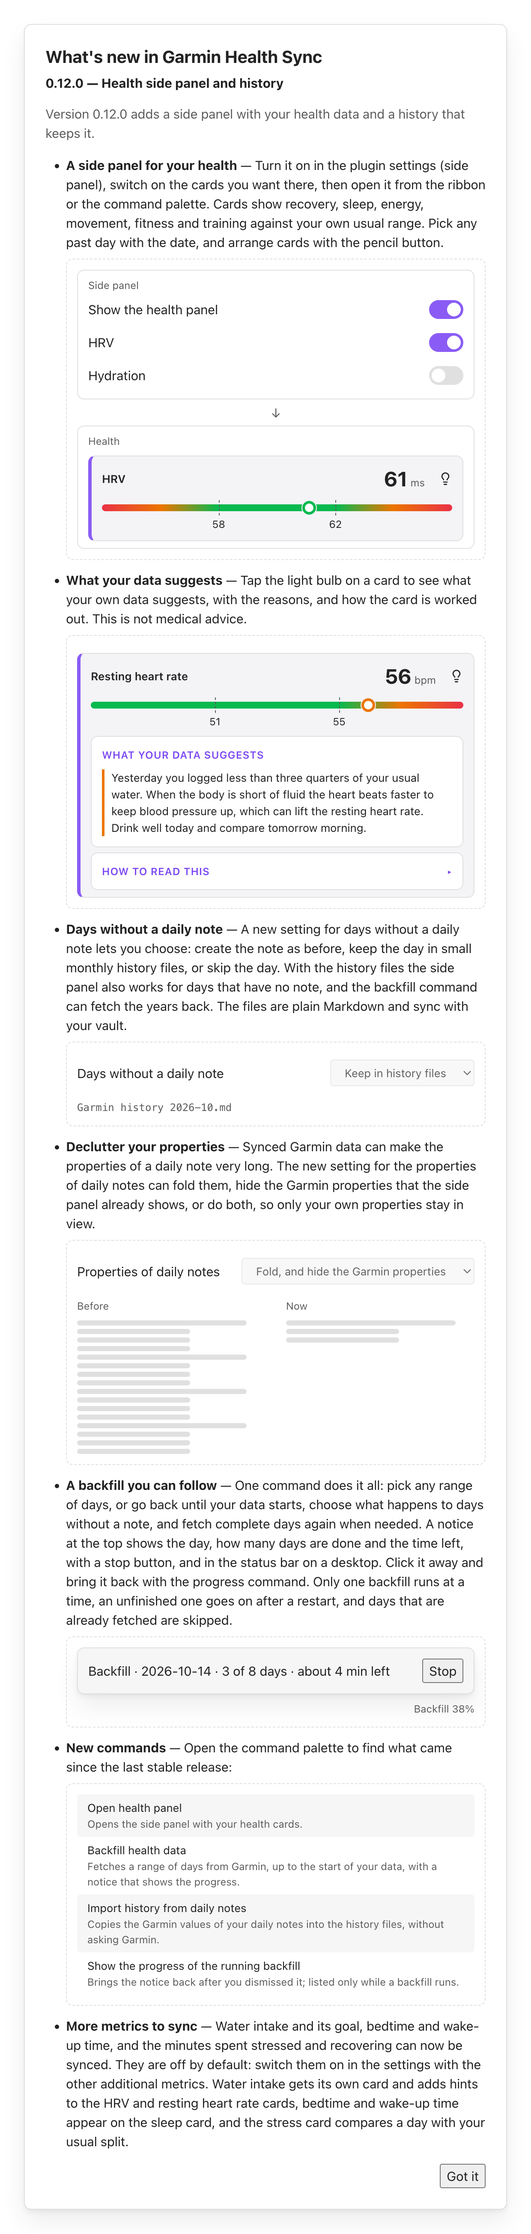
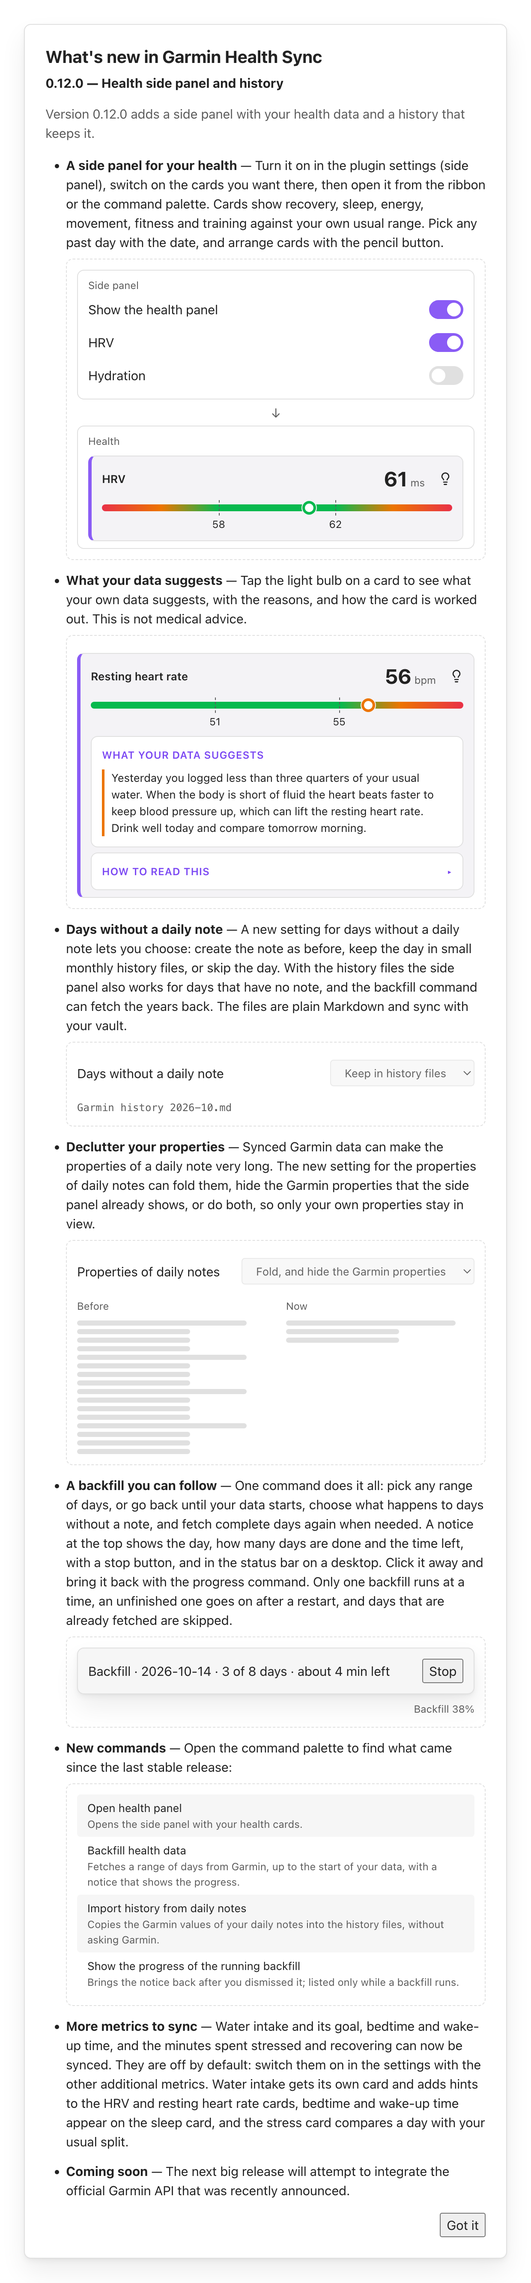
Release polish: card reference docs, README purpose and credits in six languages, NOTICE, what's new coming soon, README parity test

Changed region(s): [[0.0919, 0.0, 0.9194, 0.9996]]

diff --git a/tests/readmeParity.test.ts b/tests/readmeParity.test.ts
@@ -1,0 +1,39 @@
+// Why it matters: the six READMEs are what users in each language read first. A section, an image, a feature bullet
+// or a credit that exists in English but not in a translation is information some users never get, and nothing
+// else compares them.
+import { readFileSync } from "node:fs";
+import { describe, expect, it } from "vitest";
+
+const read = (name: string): string => readFileSync(new URL(`../${name}`, import.meta.url), "utf8");
+const english = read("README.md");
+const translations = ["de", "es", "fr", "ja", "zh"].map((l) => [l, read(`README.${l}.md`)] as const);
+
+const headings = (text: string, mark: string): number => text.split("\n").filter((l) => l.startsWith(`${mark} `)).length;
+const images = (text: string): string[] => [...text.matchAll(/<img src="([^"]+)"/g)].map((m) => m[1]!);
+const features = (text: string): number => {
+	const start = text.indexOf("\n- ");
+	const end = text.indexOf("\n## ", start);
+	return text.slice(start, end).split("\n").filter((l) => l.startsWith("- **")).length;
+};
+
+describe("the translated READMEs", () => {
+	it.each(translations)("README.%s.md has the sections, feature bullets and images of the English one", (_lang, text) => {
+		expect(headings(text, "##")).toBe(headings(english, "##"));
+		expect(headings(text, "###")).toBe(headings(english, "###"));
+		expect(features(text)).toBe(features(english));
+		expect(images(text)).toEqual(images(english));
+	});
+
+	it.each([["README.md", english], ...translations.map(([l, t]) => [`README.${l}.md`, t] as const)])("%s states the purpose, links the card reference and credits the plugins the properties handling was inspired by", (_name, text) => {
+		expect(text).toContain("docs/panel-cards.md");
+		expect(text).toContain("NOTICE.md");
+		expect(text).toContain("obsidian.md/plugins?id=fold-properties-by-default");
+		expect(text).toContain("obsidian.md/plugins?id=extended-properties");
+	});
+
+	it("puts the three screenshots that matter first, before the technical sections", () => {
+		const firstSection = english.indexOf("\n## ");
+		const hero = images(english.slice(0, firstSection));
+		expect(hero).toEqual(["docs/screenshots/panel-today.png", "docs/screenshots/panel-insights.png", "docs/screenshots/panel-today-dark.png"]);
+	});
+});

diff --git a/src/i18n/fr.ts b/src/i18n/fr.ts
@@ -511,6 +511,8 @@ export const fr: Record<TranslationKeys, string> = {
 	whatsNew0120Item6Text: "Ouvrez la palette de commandes pour voir ce qui est arrivé depuis la dernière version stable :",
 	whatsNew0120Item7Title: "Plus de mesures à synchroniser",
 	whatsNew0120Item7Text: "L’apport en eau et son objectif, l’heure du coucher et du réveil, ainsi que les minutes de stress et de récupération peuvent maintenant être synchronisés. Ils sont désactivés par défaut : activez-les dans les réglages avec les autres mesures supplémentaires. L’apport en eau a sa propre carte et ajoute des conseils aux cartes VFC et fréquence cardiaque au repos, l’heure du coucher et du réveil apparaissent sur la carte du sommeil, et la carte du stress compare une journée à votre répartition habituelle.",
+	whatsNew0120Item8Title: "Bientôt",
+	whatsNew0120Item8Text: "La prochaine grande version tentera d’intégrer l’API officielle de Garmin annoncée récemment.",
 	whatsNewCmdOpenPanel: "Ouvre le panneau latéral avec vos cartes de santé.",
 	whatsNewCmdBackfill: "Récupère une période depuis Garmin, jusqu’au début de vos données, avec une notification qui montre la progression.",
 	whatsNewCmdImportHistory: "Copie les valeurs Garmin de vos notes quotidiennes dans les fichiers d’historique, sans interroger Garmin.",

diff --git a/src/i18n/ja.ts b/src/i18n/ja.ts
@@ -511,6 +511,8 @@ export const ja: Record<TranslationKeys, string> = {
 	whatsNew0120Item6Text: "コマンドパレットを開くと、前回の安定版以降に追加されたものが見つかります。",
 	whatsNew0120Item7Title: "同期できる指標が増えました",
 	whatsNew0120Item7Text: "水分摂取量とその目標、就寝時刻と起床時刻、ストレスと回復の時間を同期できるようになりました。初期設定ではオフです。設定のその他の指標でオンにしてください。水分摂取量は専用カードを持ち、HRVと安静時心拍数のカードにヒントを加えます。就寝時刻と起床時刻は睡眠カードに表示され、ストレスカードは普段の割合と比べて1日を示します。",
+	whatsNew0120Item8Title: "近日公開予定",
+	whatsNew0120Item8Text: "次の大型リリースでは、最近発表された Garmin の公式 API の統合を試みる予定です。",
 	whatsNewCmdOpenPanel: "健康カードのあるサイドパネルを開きます。",
 	whatsNewCmdBackfill: "Garminから期間内の日をデータの始まりまで取得し、進捗を通知で表示します。",
 	whatsNewCmdImportHistory: "デイリーノートのGarmin値を、Garminに問い合わせずに履歴ファイルへコピーします。",

diff --git a/src/i18n/es.ts b/src/i18n/es.ts
@@ -511,6 +511,8 @@ export const es: Record<TranslationKeys, string> = {
 	whatsNew0120Item6Text: "Abre la paleta de comandos para ver lo que ha llegado desde la última versión estable:",
 	whatsNew0120Item7Title: "Más métricas para sincronizar",
 	whatsNew0120Item7Text: "Ahora se pueden sincronizar la ingesta de agua y su objetivo, la hora de acostarse y de despertarse, y los minutos con estrés y en recuperación. Están desactivadas de forma predeterminada: actívalas en los ajustes junto con las demás métricas adicionales. La ingesta de agua tiene su propia tarjeta y añade pistas a las tarjetas de VFC y de frecuencia cardíaca en reposo, la hora de acostarse y de despertarse aparecen en la tarjeta de sueño, y la tarjeta de estrés compara un día con tu reparto habitual.",
+	whatsNew0120Item8Title: "Próximamente",
+	whatsNew0120Item8Text: "La próxima gran versión intentará integrar la API oficial de Garmin que se anunció recientemente.",
 	whatsNewCmdOpenPanel: "Abre el panel lateral con tus tarjetas de salud.",
 	whatsNewCmdBackfill: "Obtiene un rango de días de Garmin, hasta el inicio de tus datos, con un aviso que muestra el progreso.",
 	whatsNewCmdImportHistory: "Copia los valores de Garmin de tus notas diarias a los archivos de historial, sin consultar a Garmin.",

diff --git a/src/i18n/de.ts b/src/i18n/de.ts
@@ -512,6 +512,8 @@ export const de: Record<TranslationKeys, string> = {
 	whatsNew0120Item6Text: "Öffne die Befehlspalette, um zu sehen, was seit der letzten stabilen Version dazugekommen ist:",
 	whatsNew0120Item7Title: "Mehr Messwerte zum Synchronisieren",
 	whatsNew0120Item7Text: "Wasseraufnahme samt Ziel, Schlafens- und Aufwachzeit sowie die Minuten mit Stress und Erholung lassen sich jetzt synchronisieren. Sie sind standardmäßig aus: Schalte sie in den Einstellungen bei den weiteren Messwerten ein. Die Wasseraufnahme bekommt eine eigene Karte und ergänzt Hinweise bei HRV und Ruheherzfrequenz, Schlafens- und Aufwachzeit erscheinen auf der Schlafkarte, und die Stresskarte vergleicht einen Tag mit deiner üblichen Verteilung.",
+	whatsNew0120Item8Title: "Demnächst",
+	whatsNew0120Item8Text: "Die nächste große Version wird versuchen, die kürzlich angekündigte offizielle Garmin-API einzubinden.",
 	whatsNewCmdOpenPanel: "Öffnet das Seitenpanel mit deinen Gesundheitskarten.",
 	whatsNewCmdBackfill: "Holt einen Zeitraum von Garmin, bis zum Beginn deiner Daten, mit einer Meldung, die den Fortschritt zeigt.",
 	whatsNewCmdImportHistory: "Kopiert die Garmin-Werte deiner Daily Notes in die Verlaufsdateien, ohne Garmin anzufragen.",

diff --git a/src/note-properties.ts b/src/note-properties.ts
@@ -4,8 +4,9 @@ import type { App, TAbstractFile, TFile } from "obsidian";
  * What a daily note does with its properties block (the "Properties of daily notes" setting): nothing, fold it when
  * the note opens, or hide the rows the sync wrote (the side panel shows them) so only the user's own properties stay in view.
  *
- * Folding works like the plugin "Fold properties by default" (MIT, Tommy Bergeron): Obsidian builds the properties
- * block a moment after the note opens, so look for it a few times, then run Obsidian's own "Toggle fold
+ * Folding works like the plugin "Fold properties by default" (MIT, Tommy Bergeron), and hiding the properties the
+ * panel shows is in the spirit of "Extended Properties" (MIT, electroluminescent); no code of either is used (see
+ * NOTICE.md). Obsidian builds the properties block a moment after the note opens, so look for it a few times, then run Obsidian's own "Toggle fold
  * properties" command if the block is still open. Hiding marks the rows (`data-property-key`) with a class and
  * watches the block, because Obsidian rebuilds rows when a value changes, which a sync does.
  */

diff --git a/src/i18n/en.ts b/src/i18n/en.ts
@@ -510,6 +510,8 @@ export const en = {
 	whatsNew0120Item6Text: "Open the command palette to find what came since the last stable release:",
 	whatsNew0120Item7Title: "More metrics to sync",
 	whatsNew0120Item7Text: "Water intake and its goal, bedtime and wake-up time, and the minutes spent stressed and recovering can now be synced. They are off by default: switch them on in the settings with the other additional metrics. Water intake gets its own card and adds hints to the HRV and resting heart rate cards, bedtime and wake-up time appear on the sleep card, and the stress card compares a day with your usual split.",
+	whatsNew0120Item8Title: "Coming soon",
+	whatsNew0120Item8Text: "The next big release will attempt to integrate the official Garmin API that was recently announced.",
 	whatsNewCmdOpenPanel: "Opens the side panel with your health cards.",
 	whatsNewCmdBackfill: "Fetches a range of days from Garmin, up to the start of your data, with a notice that shows the progress.",
 	whatsNewCmdImportHistory: "Copies the Garmin values of your daily notes into the history files, without asking Garmin.",

diff --git a/src/i18n/zh.ts b/src/i18n/zh.ts
@@ -511,6 +511,8 @@ export const zh: Record<TranslationKeys, string> = {
 	whatsNew0120Item6Text: "打开命令面板，查看自上一个稳定版以来新增的命令：",
 	whatsNew0120Item7Title: "可同步更多指标",
 	whatsNew0120Item7Text: "现在可以同步饮水量及其目标、就寝和起床时间，以及压力和恢复的分钟数。它们默认关闭：请在设置中与其他附加指标一起开启。饮水量有自己的卡片，并为心率变异性和静息心率卡片增加提示；就寝和起床时间显示在睡眠卡片上；压力卡片会将当天与你平时的比例对比。",
+	whatsNew0120Item8Title: "即将推出",
+	whatsNew0120Item8Text: "下一个重大版本将尝试集成最近宣布的 Garmin 官方 API。",
 	whatsNewCmdOpenPanel: "打开带有健康卡片的侧边面板。",
 	whatsNewCmdBackfill: "从 Garmin 获取一段日期范围，直到你的数据开始，并用通知显示进度。",
 	whatsNewCmdImportHistory: "把每日笔记中的 Garmin 值复制到历史文件，无需询问 Garmin。",

diff --git a/src/release-notes.ts b/src/release-notes.ts
@@ -25,6 +25,8 @@ const RELEASE_NOTES: ReleaseNote[] = [
 			{ title: "whatsNew0120Item5Title", text: "whatsNew0120Item5Text", figure: "backfill" },
 			{ title: "whatsNew0120Item6Title", text: "whatsNew0120Item6Text", figure: "commands" },
 			{ title: "whatsNew0120Item7Title", text: "whatsNew0120Item7Text" },
+			// the look-ahead goes last, as in 0.11.2: what the next big release attempts
+			{ title: "whatsNew0120Item8Title", text: "whatsNew0120Item8Text" },
 		],
 	},
 	{

diff --git a/docs/panel-cards.md b/docs/panel-cards.md
@@ -6,7 +6,7 @@ The light bulb on every card opens two boxes: **What your data suggests** (at mo
 
 ## Principles
 
-- **Your own normal.** Almost every card compares today with *your* last days, not with a population table. The usual range is the mean and standard deviation (sd) of the 30 days before the shown day, with a floor on the sd so a very stable person does not get a razor-thin band. The shown day never counts into its own range.
+- **Your own normal.** Almost every card compares today with *your* last days, not with a population table. The usual range is the mean and standard deviation (sd) of the 30 days before the shown day, with a floor on the sd so a very stable person does not get a razor-thin band. From 8 values on, a value far from the rest (more than 5 robust spreads from the median) is left out, so one sensor error does not stretch the range for a month. The shown day never counts into its own range.
 - **Thin data is said, not hidden.** A card that has too little data shows what it needs ("Unlocks after 5 days of data · 3 so far") instead of a number. A range from 5 to 20 days is drawn but marked "Early estimate": a new watch or a new account has a young range, and the card says so. Cards that need a metric you have not switched on say which one under **Settings → Garmin Health Sync → Side panel**.
 - **Numbers on the card, advice under the light bulb.** The card shows the number and where it sits; what to do about it is in the bulb.
 - **Colour means one thing.** Green is inside your usual or a reached target, amber and orange a warning, red far outside. Where no direction is good or bad (weight, stress level, load) the marker stays neutral.
@@ -22,7 +22,7 @@ In panel order. "Needs" names the metrics to switch on in the settings; **extra*
 ### today
 - **What it shows:** your readiness for today as a score from 0 to 100 with its band (poor, low, moderate, high, prime), a verdict (train hard, train as planned, go easy, day off), Garmin's own readiness next to it when the watch provides it, and a note when the score rests on a young range.
 - **Decision it supports:** whether to do the hard session you planned, keep the plan, go easy or take a day off, based on how recovered you are against your own normal.
-- **How it is calculated:** 60 + t × (10 × z(HRV) − 7 × z(resting heart rate) − 4 × sleep debt in hours (at most 3) + 0.25 × body battery peak gap (between −8 and +8)). A day with nothing unusual scores 60. The z values are held between −2 and 2 and use the 30 day range; `t` is the days of that range divided by 21 (at most 1), so a young range pulls the score toward 60. The sleep debt is counted against your usual sleep. Bands: 0 to 29 poor, 30 to 49 low, 50 to 69 moderate, 70 to 89 high, 90 and above prime. Eight flags (HRV low, resting heart rate high, sleep debt over 2 hours, battery peak 15 or more below usual, stress 10 above the week, breathing 1.5 sd up, SpO2 below 94 %, load ratio above 1.5) set the verdict together with the band; three flags or raised breathing with a high resting heart rate mean a day off. Full formulas: [panel-insights.md](panel-insights.md#the-today-card). It needs HRV, resting heart rate and sleep for the day and 5 days of range; until then Garmin's own readiness is shown, or the card says what it waits for.
+- **How it is calculated:** 60 + t × (10 × z(HRV) − 7 × z(resting heart rate) − 4 × sleep debt in hours (at most 3) + 0.25 × body battery peak gap (between −8 and +8)). A day with nothing unusual scores 60. The z values are held between −2 and 2 and use the 30 day range; `t` is the days on which HRV and resting heart rate were both measured, divided by 21 (at most 1), so a young range pulls the score toward 60. The sleep debt is counted against your usual sleep. There is no score with fewer than 5 such days or without last night's sleep, and a note says when the debt rests on fewer than 7 nights. Bands: 0 to 29 poor, 30 to 49 low, 50 to 69 moderate, 70 to 89 high, 90 and above prime. Eight flags (HRV low, resting heart rate high, sleep debt over 2 hours, battery peak 15 or more below usual, stress 10 above the week, breathing 1.5 sd up, SpO2 below 94 %, load ratio above 1.5) set the verdict together with the band; three flags or raised breathing with a high resting heart rate mean a day off. Full formulas: [panel-insights.md](panel-insights.md#the-today-card). It needs HRV, resting heart rate and sleep for the day and 5 days of range; until then Garmin's own readiness is shown, or the card says what it waits for.
 - **How it is drawn:** the verdict in large type on a card edge tinted by it, a bar from red to cyan split at 30, 50, 70 and 90 with a ring at your score, and Garmin's number as a quiet row underneath.
 - **Needs:** `hrv`, `resting_hr`, `sleep_duration`; extra: `body_battery_max`, `training_readiness`, `spo2`, `respiration_rate`, `stress`.
 - **Light bulb:** one statement per flag that is raised, or that nothing stands out (`today_flag_*`, `today_no_flags`).
@@ -70,7 +70,7 @@ In panel order. "Needs" names the metrics to switch on in the settings; **extra*
 ### stages
 - **What it shows:** the night's deep, REM, light and awake time.
 - **Decision it supports:** whether a poor night was short or fragmented, and what in the day before might explain it.
-- **How it is calculated:** each stage in minutes against the mean ± sd of 14 or more earlier nights (sd floor in minutes); a difference of more than 1 sd is shown in minutes. Only deep or REM too low, or awake too high, get a tip. All four stages must be present.
+- **How it is calculated:** each stage in minutes against the mean ± sd of 14 or more earlier nights that had the stage (a stage of 0 minutes is a watch that did not record it, and is no reading); a difference of more than 1 sd is shown in minutes. Only deep or REM too low, or awake too high, get a tip. All four stages must be present.
 - **How it is drawn:** a stacked bar of the four stages and one row each with a track from 0 to twice your usual and a white tick at your usual amount.
 - **Needs:** `sleep_deep`, `sleep_rem`, `sleep_light`, `sleep_awake`.
 - **Light bulb:** `deep_*`, `rem_*`, `awake_*`, `stages_*`.
@@ -94,7 +94,7 @@ In panel order. "Needs" names the metrics to switch on in the settings; **extra*
 ### hydration
 - **What it shows:** the water you logged for the day against your goal, in litres and glasses.
 - **Decision it supports:** whether to drink more now, spread over the day, particularly on a training day. Only drinks you log count, so a day without a log shows no reading.
-- **How it is calculated:** the goal is the one Garmin holds for the day or, without one, the mean goal of the 7 days before; the usual intake is the mean logged intake of the 7 days before, from 3 days. For today a pace is worked out by spreading the goal over the waking day (7:00 to 22:00).
+- **How it is calculated:** the goal is the one Garmin holds for the day or, without one, the mean goal of the 7 days before (a goal or average of 0 is no goal); the usual intake is the mean logged intake of the 7 days before, from 3 days. For today a pace is worked out by spreading the goal over the waking day (7:00 to 22:00).
 - **How it is drawn:** a bar of the intake with a tick and label at the goal (or at the usual intake when there is no goal), and a foot line of what is left in litres and glasses of 250 ml.
 - **Needs:** `hydration_ml`; extra: `hydration_goal_ml`.
 - **Light bulb:** `hydration_*` (on pace, behind, below goal, low streak, training day, weekday low). Intake also adds a possible cause to low HRV and high resting heart rate.
@@ -142,7 +142,7 @@ In panel order. "Needs" names the metrics to switch on in the settings; **extra*
 ### load
 - **What it shows:** the load balance: the last 7 days of training against your weekly average of the last 28 days, with Garmin's own training status as a label.
 - **Decision it supports:** whether you are building, maintaining, straining or detraining, so the next session can be adjusted.
-- **How it is calculated:** each session is its minutes times a factor for how hard it was (0.6 to 1.4): with a birth year from the heart rate zone of its average, otherwise from where its heart rate ranks among your last 90 sessions (needs 10 with a heart rate). Recovery sessions (breathwork, meditation, stretching, mobility) are left out. The ratio is the 7 day load over the average week of the days of the 28 that have a note or record; at least 14 such days and one previous complete week are needed. Zones: under 0.8 detrain, to 1.0 maintain, to 1.3 build, to 1.5 strain, above overreach.
+- **How it is calculated:** each session is its minutes times a factor for how hard it was (0.6 to 1.4): with a birth year from the heart rate zone of its average, otherwise from where its heart rate ranks among your last 90 sessions (needs 10 with a heart rate; sessions with exactly the same heart rate count half, so a session that equals all the others is a middle one). Recovery sessions (breathwork, meditation, stretching, mobility) are left out. The ratio is the 7 day load over the average week of the days of the 28 that have a note or record; at least 14 such days and one previous complete week are needed. Zones: under 0.8 detrain, to 1.0 maintain, to 1.3 build, to 1.5 strain, above overreach.
 - **How it is drawn:** a bar from 0.5 to 1.8 with a neutral dot at your ratio and the five zone names under it, the current one emphasised.
 - **Needs:** workouts (always synced); extra: `training_status`.
 - **Light bulb:** `load_*`.

diff --git a/README.fr.md b/README.fr.md
@@ -20,6 +20,7 @@
 ## Fonctionnalités
 
 - **Synchronisation automatique au démarrage** — vérifie les 7 derniers jours et complète les données de santé manquantes
+- **Mode attente de note** — laisse éventuellement la synchronisation automatique attendre qu’un autre outil (Templater, Calendar, une synchronisation externe) crée la Daily Note, au lieu de la créer elle-même
 - **Synchronisation manuelle** — synchronisez n'importe quelle Daily Note ouverte via la palette de commandes
 - **Remplissage rétroactif** — synchronisation en masse d'une plage de dates (par ex. les 3 derniers mois)
 - **Plus de 20 métriques** — pas, score de sommeil, HRV, stress, Body Battery, SpO2, poids, et plus
@@ -29,6 +30,7 @@
 - **Support des sous-dossiers** — trouve les Daily Notes existantes dans les dossiers imbriqués (par ex. `Journal/2024-07/`) et crée des sous-dossiers par date lorsque le format du nom de fichier contient `/` (par ex. `YYYY/YYYY-MM-DD` → `Journal/2026/2026-08-04.md`)
 - **Détection automatique de la langue** — la langue de l'interface est définie selon la langue de votre Obsidian (EN, DE, ZH, JA, ES, FR)
 - **Données structurées optionnelles** — champ `trainings` lisible par machine pour des requêtes Dataview avancées
+- **Préfixe des propriétés** — ajoute éventuellement le préfixe `ohs_` à toutes les propriétés frontmatter pour éviter les conflits de noms avec d’autres plugins
 - **Panneau latéral santé** — barre latérale droite optionnelle avec des cartes pour la récupération, le sommeil, l’énergie, le mouvement, la forme et l’entraînement, comparées à votre propre plage habituelle ; touchez l’ampoule d’une carte pour voir ce que suggèrent vos données et comment c’est calculé ; à activer dans **Réglages → Garmin Health Sync → Panneau latéral**
 - **Notes d’historique** — conservez en option chaque jour récupéré dans de petites notes mensuelles en markdown, pour que le panneau fonctionne aussi les jours sans note quotidienne et que les données se synchronisent avec votre coffre
 - **Propriétés des notes quotidiennes** — repliez le bloc de propriétés à l’ouverture d’une note ou masquez les propriétés Garmin que le panneau affiche déjà
@@ -153,12 +155,9 @@ Les jours sont récupérés du plus récent au plus ancien, avec la limitation d
 
 ### Panneau latéral santé
 
-Activez **Panneau latéral** dans les paramètres du plugin, puis ouvrez-le avec l’icône du ruban ou la commande **Ouvrir le panneau santé**. Les cartes comparent aujourd’hui à votre propre plage habituelle (les 30 derniers jours) et ne modifient jamais vos notes. Touchez la date pour choisir un jour, utilisez les flèches pour avancer d’un jour et le bouton crayon pour réorganiser les cartes en les faisant glisser. Chaque carte a un interrupteur dans les paramètres qui indique aussi quelles métriques activer pour elle. Touchez l’ampoule d’une carte pour **Ce que suggèrent vos données** (raisons et ce qui aide, tirés de vos propres données) et **Comment lire ceci**. Le panneau n’est pas un avis médical. En ajoutant votre année de naissance (seulement l’année) dans les paramètres, vous obtenez des zones de fréquence cardiaque et des objectifs adaptés à l’âge.
+Activez **Panneau latéral** dans les paramètres du plugin, puis ouvrez-le avec l’icône du ruban ou la commande **Ouvrir le panneau santé**. Les cartes comparent aujourd’hui à votre propre plage habituelle (les 30 derniers jours) et ne modifient jamais vos notes. Touchez la date pour choisir un jour, utilisez les flèches pour avancer d’un jour et le bouton crayon pour réorganiser les cartes en les faisant glisser. Chaque carte a un interrupteur dans les paramètres qui indique aussi quelles métriques activer pour elle. Touchez l’ampoule d’une carte pour **Ce que suggèrent vos données** (raisons et ce qui aide, tirés de vos propres données) et **Comment lire ceci**. Le panneau n’est pas un avis médical. En ajoutant votre année de naissance (seulement l’année) dans les paramètres, vous obtenez des zones de fréquence cardiaque et des objectifs adaptés à l’âge. Voir [ce que montre chaque carte et comment elle est calculée](docs/panel-cards.md).
 
 <p>
-<img src="docs/screenshots/panel-today.png" width="280" alt="Disponibilité et récupération">
-<img src="docs/screenshots/panel-today-dark.png" width="280" alt="Les mêmes cartes en thème sombre">
-<img src="docs/screenshots/panel-insights.png" width="280" alt="Ce que suggèrent vos données, sous l’ampoule">
 <img src="docs/screenshots/panel-hydration.png" width="280" alt="Carte d’hydratation et ses explications">
 <img src="docs/screenshots/panel-sleep.png" width="280" alt="Sommeil et phases du sommeil">
 <img src="docs/screenshots/panel-energy.png" width="280" alt="Body Battery, stress et hydratation">
@@ -171,7 +170,7 @@ Avec **Jours sans note quotidienne** réglé sur **Garder dans les fichiers d’
 
 ### Propriétés des notes quotidiennes
 
-Le réglage **Propriétés des notes quotidiennes** peut replier le bloc de propriétés d’une note quotidienne à l’ouverture, masquer les propriétés écrites par le plugin (le panneau les affiche) ou les deux. Rien n’est supprimé d’une note.
+Le réglage **Propriétés des notes quotidiennes** peut replier le bloc de propriétés d’une note quotidienne à l’ouverture, masquer les propriétés écrites par le plugin (le panneau les affiche) ou les deux. Rien n’est supprimé d’une note. Le repli et le masquage suivent les idées des plugins communautaires [Fold Properties By Default](https://obsidian.md/plugins?id=fold-properties-by-default) et [Extended Properties](https://obsidian.md/plugins?id=extended-properties) ; voir Crédits.
 
 ## Normalisation des clés d'activité
 
@@ -230,3 +229,5 @@ npm run build  # build de production
 ## Crédits
 
 Créé à l’origine par [fcandi](https://github.com/fcandi). Maintenu et développé par [davadev](https://github.com/davadev).
+
+La gestion des propriétés dans les notes quotidiennes (replier le bloc de propriétés, masquer les propriétés que montre le panneau latéral) s’est inspirée des plugins communautaires [Fold Properties By Default](https://obsidian.md/plugins?id=fold-properties-by-default) de Tommy Bergeron et [Extended Properties](https://obsidian.md/plugins?id=extended-properties) d’electroluminescent (tous deux sous licence MIT). Aucun code n’a été copié ; voir [NOTICE.md](NOTICE.md).
